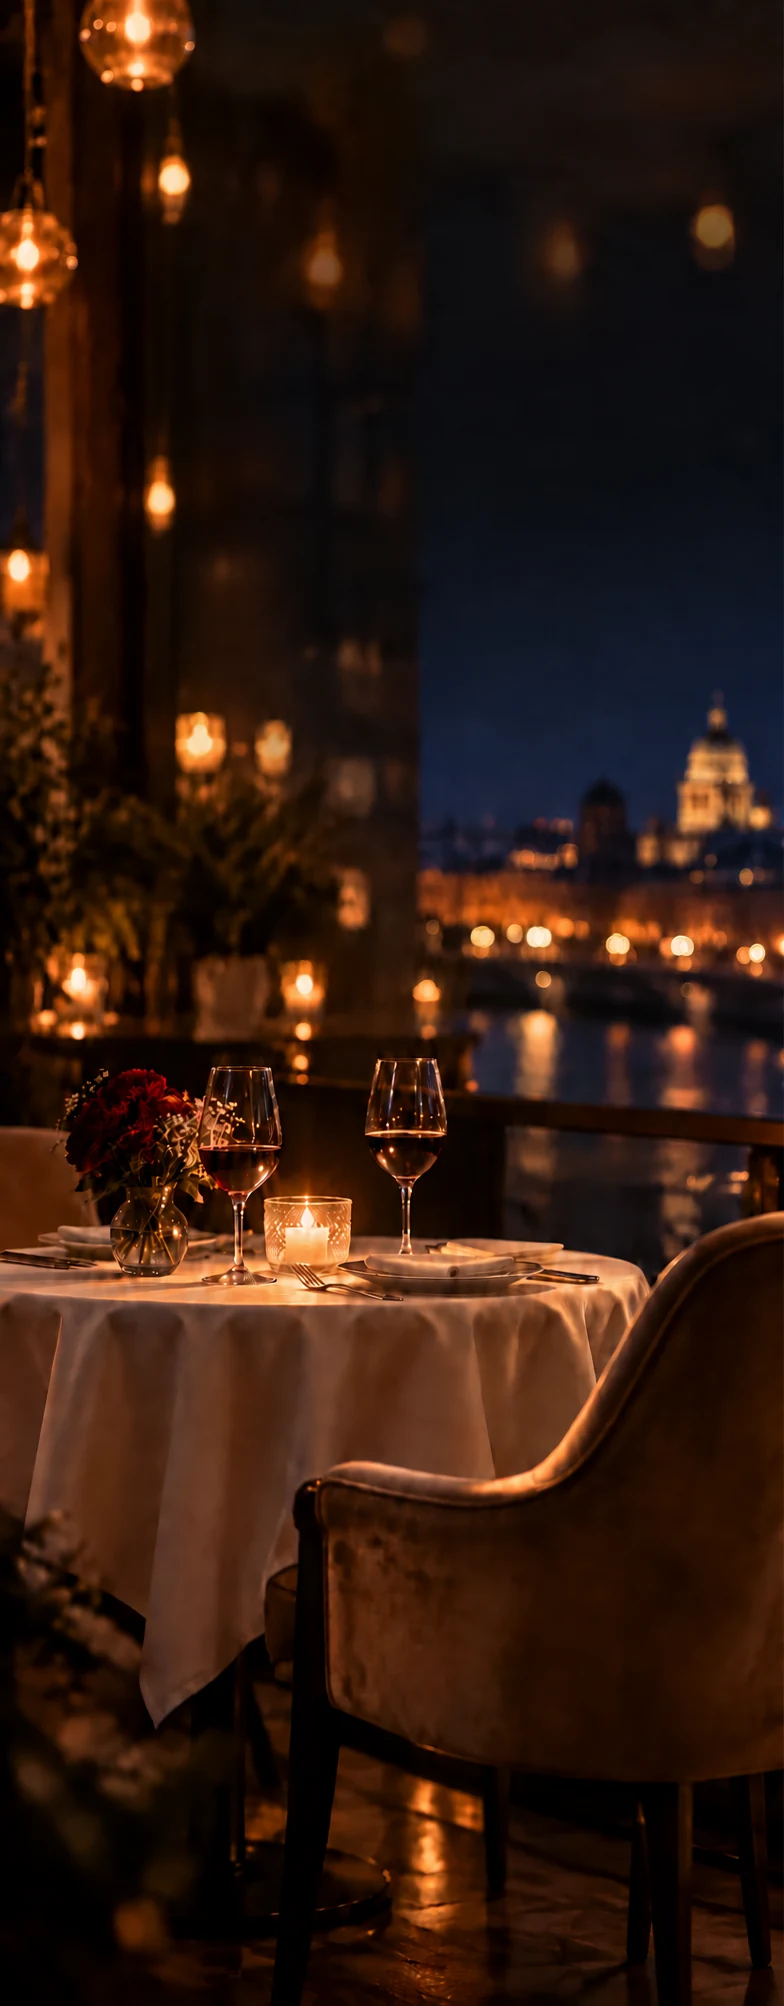
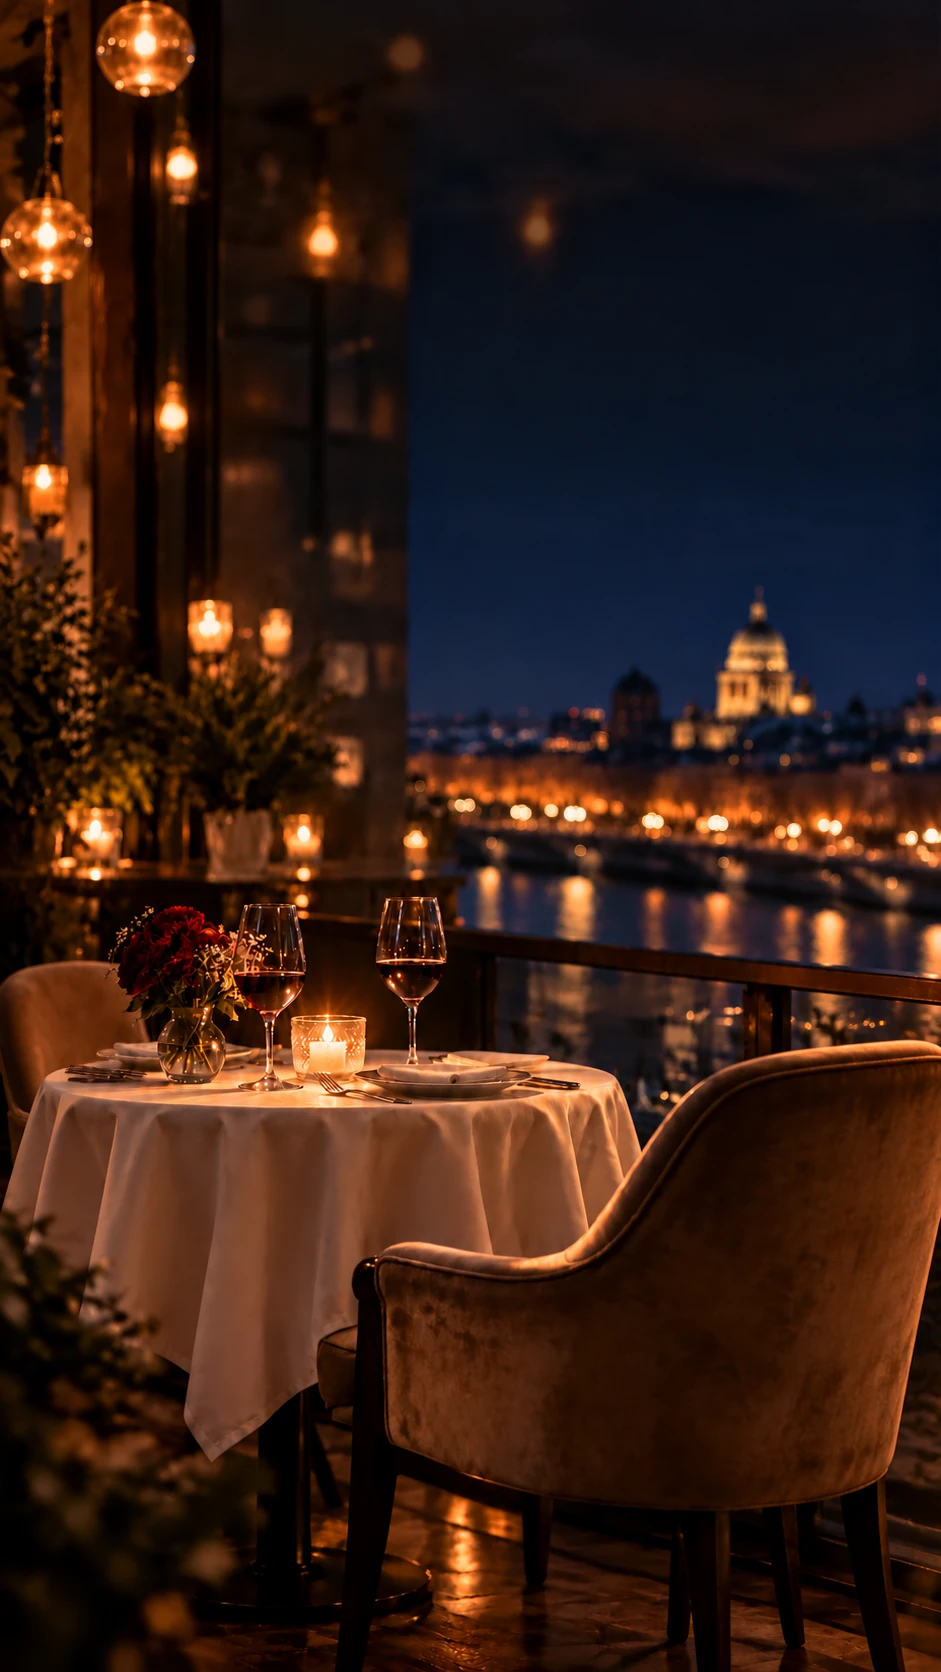
[UI] Regenerate the artwork at the shape of the viewport
New scene cut to 941x1672, which is 1:1.78 - the proportions of what
Safari actually leaves on her phone, 402x714 with the address bar
showing. At that shape cover fits it exactly: measured on the device,
zero crop in either direction, no margins, the picture running edge to
edge with the lettering and the table both whole.

So object-fit goes back to cover, the solved puzzle back to growing by
max(), and the backdrop is now only ever seen behind the puzzle.

diff --git a/index.html b/index.html
@@ -199,16 +199,13 @@ body.is-solved .tile {
   inset: 0;
   width: 100%;
   height: 100%;
-  /* `contain`, not `cover`. Measured on the device: Safari with its
-     address bar showing leaves a 402x714 viewport, and against that the
-     artwork's 1:2.56 is so much taller that `cover` painted it 1029px
-     high and threw away 315 of them - 31%, enough to push the top of the
-     lettering off the screen entirely. Nothing about the file's
-     proportions can fix that; only showing all of it can. The width it
-     leaves over is filled by the body gradient, whose ends are sampled
-     from this image's own top and bottom edges, so the picture reads as
-     sitting in the room rather than in a box. */
-  object-fit: contain;
+  /* The artwork is 1:1.78, cut to the shape of the viewport Safari
+     actually leaves on her phone - 402x714 with the address bar showing,
+     measured on the device, not the 402x874 of the bare screen. At that
+     shape `cover` fills the screen edge to edge and trims only a sliver,
+     and the lettering sits well inside the frame, so the sliver never
+     reaches it. */
+  object-fit: cover;
   opacity: 0;
   z-index: 5;
   pointer-events: none;
@@ -397,7 +394,7 @@ const CONFIG = {
 
   // The aspect ratio the images were generated at (width / height).
   // Measured from the generated artwork itself, not from a target device.
-  aspect: 784 / 2006,
+  aspect: 941 / 1672,
 
   prompt: "собери",
   cta: "Я согласна",
@@ -721,10 +718,10 @@ function solve() {
   // mirror the `object-fit: cover` on .final - the two are cross-faded
   // over each other, so a mismatch here would make the scene jump at the
   // swap.
-  // Matched to the box the final picture occupies. `min`, mirroring the
-  // `object-fit: contain` on .final - the two cross-fade over each other,
+  // Matched to the box the final picture occupies. `max`, mirroring the
+  // `object-fit: cover` on .final - the two cross-fade over each other,
   // so a mismatch would make the scene jump at the swap.
-  const scale = Math.min(
+  const scale = Math.max(
     window.innerWidth / board.w,
     window.innerHeight / board.h
   );
